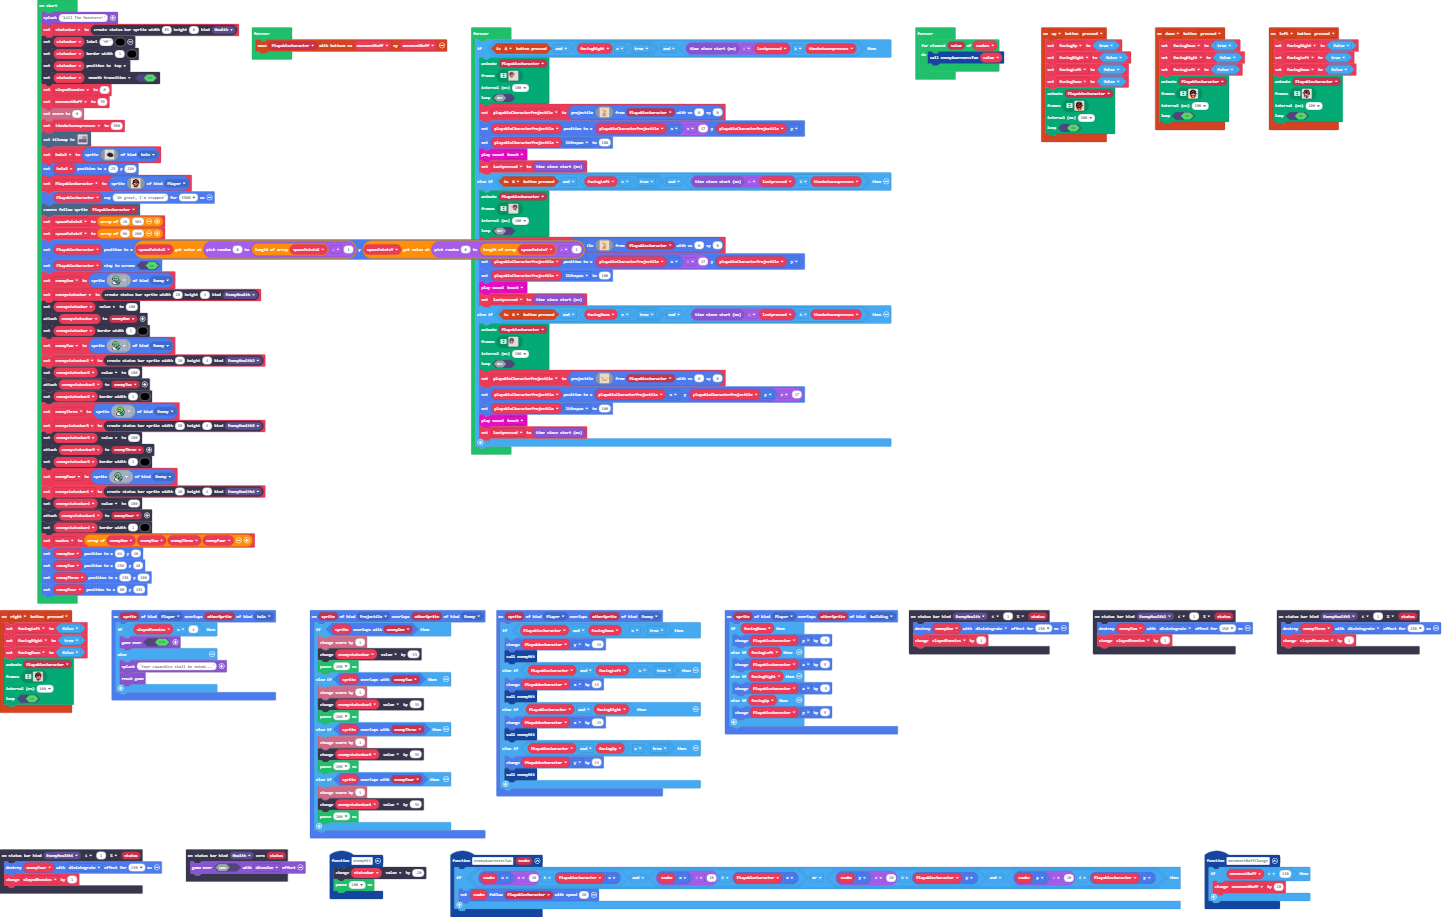
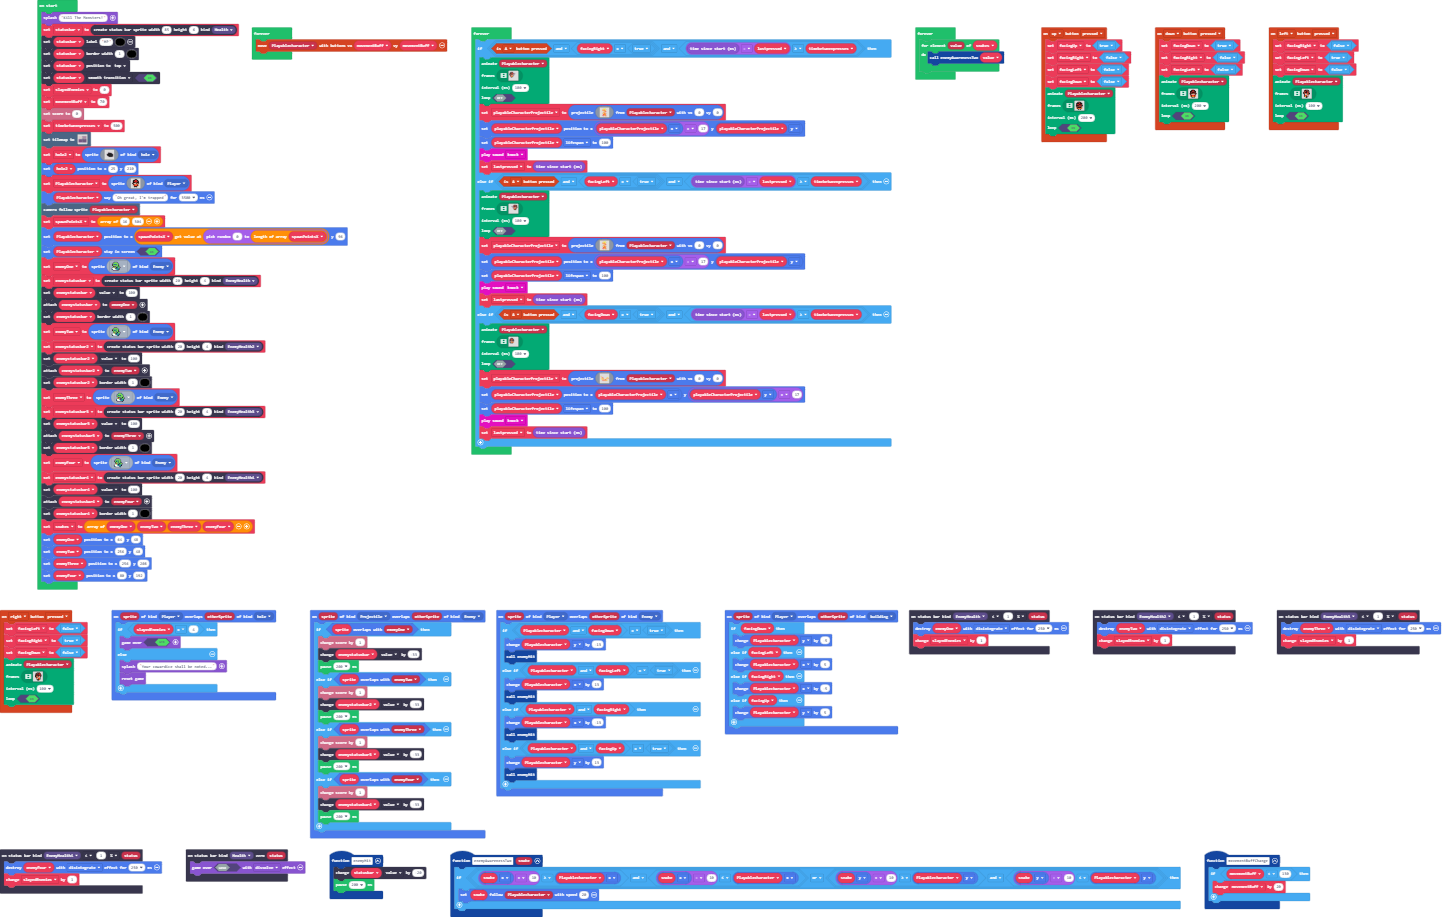
Update main.blocks, main.ts

Changed region(s): [[0.0309, 0.2443, 0.4023, 0.6718]]

diff --git a/main.ts b/main.ts
@@ -484,8 +484,7 @@ Playablecharacter = sprites.create(img`
 Playablecharacter.say("Oh great, I'm trapped", 3500)
 scene.cameraFollowSprite(Playablecharacter)
 let spawnPointsX = [16, 304]
-let spawnPointsY = [96, 200]
-Playablecharacter.setPosition(spawnPointsX[randint(0, spawnPointsX.length - 1)], spawnPointsY[randint(0, spawnPointsY.length - 1)])
+Playablecharacter.setPosition(spawnPointsX[randint(0, spawnPointsX.length)], 96)
 Playablecharacter.setStayInScreen(true)
 ememyOne = sprites.create(sprites.builtin.forestSnake0, SpriteKind.Enemy)
 enemystatusbar = statusbars.create(20, 4, StatusBarKind.EnemyHealth)
